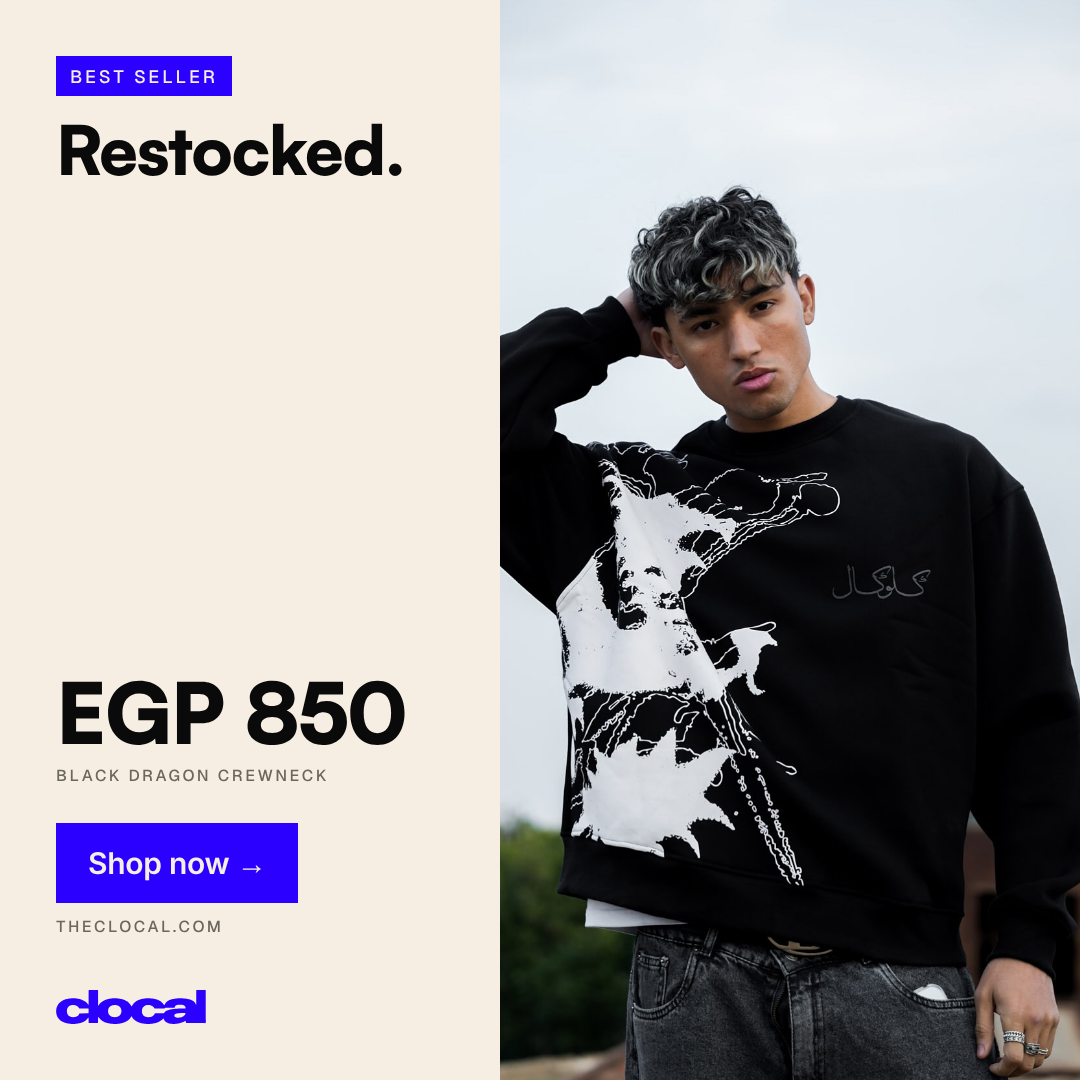
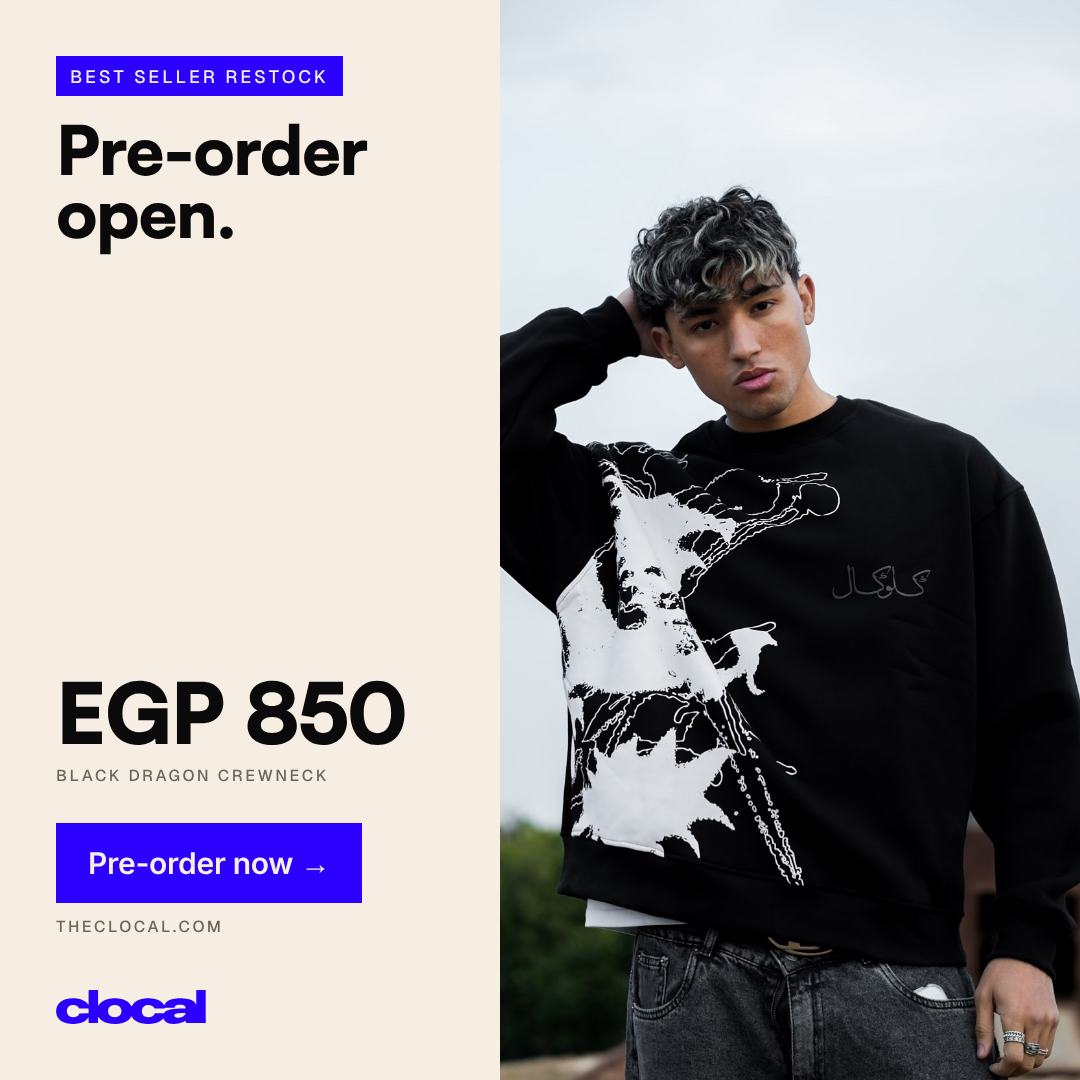
Switch all CLOCAL creatives to Pre-order now CTA
Restock is sold as a pre-order: replace Shop now / in-stock copy across all
ads and teaser frames, fix AD01 footer overflow and button wrapping.

Claude-Session: https://claude.ai/code/session_0134z9woteaCD6XRmPMXin1q

Changed region(s): [[0.0306, 0.0306, 0.3667, 0.2444], [0.0917, 0.7639, 0.3361, 0.8556]]

diff --git a/clocal-black-dragon-ads/src/ad01-the-return_4x5.html b/clocal-black-dragon-ads/src/ad01-the-return_4x5.html
@@ -1,25 +1,25 @@
 <!doctype html>
 <html><head><meta charset="utf-8"><link rel="stylesheet" href="base.css">
 <style>
-  .ph { left: 0; top: 0; width: 1080px; height: 940px; }
-  .band { position: absolute; left: 0; right: 0; top: 940px; bottom: 0; padding: 48px 64px 52px; display: flex; flex-direction: column; }
+  .ph { left: 0; top: 0; width: 1080px; height: 900px; }
+  .band { position: absolute; left: 0; right: 0; top: 900px; bottom: 0; padding: 44px 64px 52px; display: flex; flex-direction: column; }
   .band .label { font-size: 22px; color: var(--gray-300); display: flex; align-items: center; gap: 14px; }
-  .band h1 { font-size: 112px; margin-top: 26px; }
+  .band h1 { font-size: 104px; margin-top: 22px; }
   .foot { margin-top: auto; display: flex; justify-content: space-between; align-items: flex-end; }
   .foot .wm { width: 200px; color: var(--cream); }
-  .price { text-align: right; }
+  .price { display: flex; align-items: center; gap: 28px; }
   .price .amt { font-family: "Satoshi"; font-weight: 700; font-size: 44px; letter-spacing: -0.02em; }
-  .price .label { font-size: 18px; color: var(--gray-300); margin-top: 6px; justify-content: flex-end; }
+  
 </style></head>
 <body>
 <div class="ad ink">
-  <div class="photo ph" data-src="photos/p11_back_closeup.jpg" data-crop="0,330,1333"></div>
+  <div class="photo ph" data-src="photos/p11_back_closeup.jpg" data-crop="0,350,1333"></div>
   <div class="band">
-    <div class="label"><span class="dot"></span>Restocked — Black Dragon Crewneck</div>
+    <div class="label"><span class="dot"></span>Restock pre-order — Black Dragon Crewneck</div>
     <h1 class="display">The Black Dragon<br>is back.</h1>
     <div class="foot">
       <span class="wm"></span>
-      <div class="price"><div class="amt">EGP 850</div><div class="label">theclocal.com</div></div>
+      <div class="price"><div class="amt">EGP 850</div><span class="btn sm">Pre-order now →</span></div>
     </div>
   </div>
 </div>

diff --git a/clocal-black-dragon-ads/src/ad03-loud-in-the-details_4x5.html b/clocal-black-dragon-ads/src/ad03-loud-in-the-details_4x5.html
@@ -1,7 +1,8 @@
 <!doctype html>
 <html><head><meta charset="utf-8"><link rel="stylesheet" href="base.css">
 <style>
-  h1 { position: absolute; left: 64px; top: 64px; font-size: 96px; }
+  h1 { position: absolute; left: 64px; top: 70px; font-size: 84px; }
+  .topwm { position: absolute; right: 64px; top: 92px; width: 140px; color: var(--cream); }
   .tile { position: absolute; }
   .t1 { left: 64px; top: 200px; width: 952px; height: 560px; }
   .t2 { left: 64px; top: 820px; width: 464px; height: 330px; }
@@ -11,11 +12,12 @@
   .foot { position: absolute; left: 64px; right: 64px; bottom: 52px; display: flex; justify-content: space-between; align-items: flex-end; }
   .foot .body { font-size: 26px; color: var(--cream); }
   .foot .body b { font-family: "Satoshi"; font-weight: 700; font-size: 40px; letter-spacing: -0.02em; display: block; margin-top: 4px; }
-  .foot .wm { width: 180px; color: var(--cream); margin-bottom: 8px; }
+  .foot .btn { margin-bottom: 4px; }
 </style></head>
 <body>
 <div class="ad ink">
   <h1 class="display">Loud in the details.</h1>
+  <span class="wm topwm"></span>
   <div class="photo tile t1" data-src="photos/p11_back_closeup.jpg" data-crop="300,700,800"></div>
   <div class="label cap c1"><span class="dot"></span>01 — Dragon back print</div>
   <div class="photo tile t2" data-src="photos/p08_man_vines_front.jpg" data-crop="280,640,760"></div>
@@ -23,8 +25,8 @@
   <div class="photo tile t3" data-src="photos/p03_man_sky_front.jpg" data-crop="600,610,480"></div>
   <div class="label cap c3"><span class="dot"></span>03 — Arabic chest mark</div>
   <div class="foot">
-    <div class="body">Black Dragon Crewneck — back in stock<b>EGP 850</b></div>
-    <span class="wm"></span>
+    <div class="body">Black Dragon Crewneck — restock pre-order<b>EGP 850</b></div>
+    <span class="btn sm">Pre-order now →</span>
   </div>
 </div>
 <script src="crop.js"></script>

diff --git a/clocal-black-dragon-ads/src/ad02-best-seller_4x5.html b/clocal-black-dragon-ads/src/ad02-best-seller_4x5.html
@@ -2,24 +2,25 @@
 <html><head><meta charset="utf-8"><link rel="stylesheet" href="base.css">
 <style>
   .top { position: absolute; left: 64px; right: 64px; top: 60px; }
-  .top .label { font-size: 22px; color: var(--gray-500); display: flex; justify-content: space-between; }
+  .top .label { font-size: 22px; color: var(--gray-500); display: flex; justify-content: space-between; align-items: center; }
+  .top .wm { width: 150px; color: var(--blue); }
   .top h1 { font-size: 104px; margin-top: 28px; }
   .ph { left: 64px; top: 372px; width: 952px; height: 796px; }
   .foot { position: absolute; left: 64px; right: 64px; bottom: 56px; display: flex; justify-content: space-between; align-items: flex-end; }
   .foot .name { font-family: "Inter"; font-weight: 500; font-size: 28px; }
   .foot .amt { font-family: "Satoshi"; font-weight: 900; font-size: 64px; letter-spacing: -0.02em; line-height: 1; margin-top: 6px; }
-  .foot .wm { width: 210px; color: var(--blue); margin-bottom: 6px; }
+  
 </style></head>
 <body>
 <div class="ad cream">
   <div class="top">
-    <div class="label"><span>Best seller</span><span>Restocked</span></div>
+    <div class="label"><span>Best seller — restock pre-order</span><span class="wm"></span></div>
     <h1 class="display">A clocal best seller.<br><span class="blue">Back again.</span></h1>
   </div>
   <div class="photo ph" data-src="photos/p14_man_pillar_front.jpg" data-crop="0,290,1333"></div>
   <div class="foot">
     <div><div class="name">Black Dragon Crewneck</div><div class="amt">EGP 850</div></div>
-    <span class="wm"></span>
+    <span class="btn">Pre-order now →</span>
   </div>
 </div>
 <script src="crop.js"></script>

diff --git a/clocal-black-dragon-ads/src/ad05-back-in-rotation_9x16.html b/clocal-black-dragon-ads/src/ad05-back-in-rotation_9x16.html
@@ -1,20 +1,22 @@
 <!doctype html>
 <html><head><meta charset="utf-8"><link rel="stylesheet" href="base.css">
 <style>
-  .top { position: absolute; left: 64px; right: 64px; top: 250px; }
+  .top { position: absolute; left: 64px; right: 64px; top: 230px; }
   .top .row { display: flex; justify-content: space-between; align-items: flex-end; }
   .top h1 { font-size: 92px; }
   .top .wm { width: 160px; color: var(--cream); margin-bottom: 12px; }
   .top .label { font-size: 19px; color: var(--gray-300); margin-top: 22px; }
-  .ph { left: 0; top: 500px; width: 1080px; height: 1420px; }
+  .top .cta { margin-top: 24px; }
+  .ph { left: 0; top: 560px; width: 1080px; height: 1360px; }
 </style></head>
 <body>
 <div class="ad story ink">
   <div class="top">
     <div class="row"><h1 class="display">Back in rotation.</h1><span class="wm"></span></div>
-    <div class="label">Black Dragon Crewneck · Best seller, restocked · EGP 850</div>
+    <div class="label">Black Dragon Crewneck · Best seller · Restock pre-order · EGP 850</div>
+    <div class="cta"><span class="btn sm">Pre-order now →</span></div>
   </div>
-  <div class="photo ph" data-src="photos/p01_stairs_duo.jpg" data-crop="30,0,1267"></div>
+  <div class="photo ph" data-src="photos/p01_stairs_duo.jpg" data-crop="60,0,1213"></div>
 </div>
 <script src="crop.js"></script>
 </body></html>

diff --git a/clocal-black-dragon-ads/src/ad01-the-return_9x16.html b/clocal-black-dragon-ads/src/ad01-the-return_9x16.html
@@ -6,7 +6,7 @@
   .band { position: absolute; left: 64px; right: 64px; top: 1160px; }
   .band .label { font-size: 24px; color: var(--gray-300); display: flex; align-items: center; gap: 14px; margin-top: 40px; }
   .band h1 { font-size: 106px; margin-top: 24px; }
-  .row { display: flex; justify-content: space-between; align-items: center; margin-top: 44px; }
+  .row { display: flex; gap: 32px; align-items: center; margin-top: 44px; } .row .wm { margin-right: auto; }
   .row .wm { width: 190px; color: var(--cream); }
   .row .amt { font-family: "Satoshi"; font-weight: 700; font-size: 48px; letter-spacing: -0.02em; }
   .row .label { font-size: 20px; margin: 0; }
@@ -15,9 +15,9 @@
 <div class="ad story ink">
   <div class="photo ph" data-src="photos/p11_back_closeup.jpg" data-crop="0,180,1333"></div>
   <div class="band">
-    <div class="label"><span class="dot"></span>Restocked — Black Dragon Crewneck</div>
+    <div class="label"><span class="dot"></span>Restock pre-order — Black Dragon Crewneck</div>
     <h1 class="display">The Black Dragon<br>is back.</h1>
-    <div class="row"><span class="wm"></span><span class="amt">EGP 850</span></div>
+    <div class="row"><span class="wm"></span><span class="amt">EGP 850</span><span class="btn sm">Pre-order now →</span></div>
   </div>
 </div>
 <script src="crop.js"></script>

diff --git a/clocal-black-dragon-ads/src/ad08-every-angle_4x5.html b/clocal-black-dragon-ads/src/ad08-every-angle_4x5.html
@@ -12,12 +12,12 @@
   .foot { position: absolute; left: 64px; right: 64px; bottom: 50px; display: flex; justify-content: space-between; align-items: flex-end; }
   .foot .wm { width: 170px; color: var(--cream); margin-bottom: 6px; }
   .foot .amt { font-family: "Satoshi"; font-weight: 700; font-size: 44px; letter-spacing: -0.02em; text-align: right; line-height: 1; }
-  .foot .label { font-size: 16px; color: var(--gray-300); margin-top: 10px; text-align: right; }
+  .foot .pr { display: flex; align-items: center; gap: 28px; }
 </style></head>
 <body>
 <div class="ad ink">
   <div class="head">
-    <div class="label"><span class="dot"></span>Best seller — restocked</div>
+    <div class="label"><span class="dot"></span>Best seller — restock pre-order</div>
     <h1 class="display">One crewneck.<br>Every angle.</h1>
   </div>
   <div class="grid">
@@ -30,7 +30,7 @@
   </div>
   <div class="foot">
     <span class="wm"></span>
-    <div><div class="amt">EGP 850</div><div class="label">Black Dragon Crewneck · theclocal.com</div></div>
+    <div class="pr"><div class="amt">EGP 850</div><span class="btn sm">Pre-order now →</span></div>
   </div>
 </div>
 <script src="crop.js"></script>

diff --git a/clocal-black-dragon-ads/src/teaser-03-back-soon_9x16.html b/clocal-black-dragon-ads/src/teaser-03-back-soon_9x16.html
@@ -7,6 +7,7 @@
   .band .label { font-size: 22px; color: var(--gray-300); display: flex; align-items: center; gap: 14px; }
   .band h1 { font-size: 104px; margin-top: 20px; }
   .row { display: flex; justify-content: space-between; align-items: center; margin-top: 34px; }
+  .num3 { position: absolute; right: 64px; top: 1236px; font-size: 18px; color: var(--gray-500); }
   .row .wm { width: 170px; color: var(--cream); }
   .row .label { font-size: 18px; }
 </style></head>
@@ -14,9 +15,10 @@
 <div class="ad story ink">
   <div class="photo ph" data-src="photos/p05_man_back_sky.jpg" data-crop="160,40,1000"></div>
   <div class="band">
-    <div class="label"><span class="dot"></span>Best seller — restock</div>
+    <div class="label num3">03 / 03</div>
+    <div class="label"><span class="dot"></span>Best seller — restock pre-order</div>
     <h1 class="display">The Black Dragon.<br>Back soon.</h1>
-    <div class="row"><span class="wm"></span><span class="label">03 / 03 · theclocal.com</span></div>
+    <div class="row"><span class="wm"></span><span class="btn sm">Pre-order now →</span></div>
   </div>
 </div>
 <script src="crop.js"></script>

diff --git a/clocal-black-dragon-ads/src/ad05-back-in-rotation_4x5.html b/clocal-black-dragon-ads/src/ad05-back-in-rotation_4x5.html
@@ -6,14 +6,15 @@
   .row { display: flex; justify-content: space-between; align-items: flex-end; }
   h1 { font-size: 88px; }
   .wm { width: 170px; color: var(--cream); margin-bottom: 10px; }
-  .label { font-size: 18px; color: var(--gray-300); margin-top: 22px; }
+  .row2 { display: flex; justify-content: space-between; align-items: center; margin-top: 22px; }
+  .label { font-size: 17px; color: var(--gray-300); }
 </style></head>
 <body>
 <div class="ad ink">
   <div class="photo ph" data-src="photos/p01_stairs_duo.jpg" data-crop="0,170,1333"></div>
   <div class="band">
     <div class="row"><h1 class="display">Back in rotation.</h1><span class="wm"></span></div>
-    <div class="label">Black Dragon Crewneck · Best seller, restocked · EGP 850 · theclocal.com</div>
+    <div class="row2"><div class="label">Black Dragon Crewneck · Restock pre-order · EGP 850</div><span class="btn sm">Pre-order now →</span></div>
   </div>
 </div>
 <script src="crop.js"></script>

diff --git a/clocal-black-dragon-ads/src/ad07-still-the-favourite_4x5.html b/clocal-black-dragon-ads/src/ad07-still-the-favourite_4x5.html
@@ -7,7 +7,7 @@
   .over h1 { font-size: 112px; margin-top: 22px; color: var(--ink); }
   .strip { position: absolute; left: 0; right: 0; bottom: 0; height: 132px; padding: 0 64px; display: flex; justify-content: space-between; align-items: center; }
   .strip .wm { width: 170px; color: var(--blue); }
-  .strip .body { font-size: 28px; }
+  .strip .body { font-size: 26px; }
   .strip .body b { font-family: "Satoshi"; font-weight: 700; letter-spacing: -0.02em; }
 </style></head>
 <body>
@@ -19,7 +19,8 @@
   </div>
   <div class="strip cream">
     <span class="wm"></span>
-    <div class="body">Back in stock — <b>EGP 850</b> · theclocal.com</div>
+    <div class="body">Restock pre-order — <b>EGP 850</b></div>
+    <span class="btn sm">Pre-order now →</span>
   </div>
 </div>
 <script src="crop.js"></script>

diff --git a/clocal-black-dragon-ads/src/ad06-direct-response_4x5.html b/clocal-black-dragon-ads/src/ad06-direct-response_4x5.html
@@ -15,12 +15,12 @@
 <div class="ad cream">
   <div class="photo ph" data-src="photos/p03_man_sky_front.jpg" data-crop="0,0,1333"></div>
   <div class="over">
-    <span class="label tag">Best seller</span>
-    <h1 class="display">Restocked.</h1>
+    <span class="label tag">Best seller restock</span>
+    <h1 class="display">Pre-order open.</h1>
   </div>
   <div class="band">
     <div><div class="amt">EGP 850</div><div class="label name">Black Dragon Crewneck</div></div>
-    <div class="right"><span class="btn">Shop now →</span><span class="label">theclocal.com</span></div>
+    <div class="right"><span class="btn">Pre-order now →</span><span class="label">theclocal.com</span></div>
   </div>
 </div>
 <script src="crop.js"></script>

diff --git a/clocal-black-dragon-ads/src/base.css b/clocal-black-dragon-ads/src/base.css
@@ -55,6 +55,7 @@ html, body { background: var(--ink); }
 .photo img { position: absolute; display: block; }
 
 .rule { height: 1px; background: currentColor; opacity: .25; }
-.btn { display: inline-flex; align-items: center; gap: 18px; font-family: "Inter"; font-weight: 600;
+.btn { white-space: nowrap; display: inline-flex; align-items: center; gap: 18px; font-family: "Inter"; font-weight: 600;
   font-size: 34px; letter-spacing: -0.01em; padding: 26px 40px; background: var(--blue); color: var(--cream); }
 .dot { display: inline-block; width: 12px; height: 12px; border-radius: 50%; background: var(--orange); }
+.btn.sm { font-size: 24px; padding: 16px 24px; gap: 12px; }

diff --git a/clocal-black-dragon-ads/src/ad04-front-back_1x1.html b/clocal-black-dragon-ads/src/ad04-front-back_1x1.html
@@ -16,7 +16,7 @@
 <body>
 <div class="ad sq cream">
   <div class="head">
-    <h1 class="display">Front. Back.<br>Back in stock.</h1>
+    <h1 class="display">Front. Back.<br>Coming back.</h1>
     <span class="wm"></span>
   </div>
   <div class="photo tile t1" data-src="photos/p08_man_vines_front.jpg" data-crop="290,420,1010"></div>
@@ -25,7 +25,7 @@
   <div class="label cap c2">Back — dragon print</div>
   <div class="foot">
     <div><div class="name">Black Dragon Crewneck</div><div class="amt">EGP 850</div></div>
-    <span class="btn">Shop now →</span>
+    <span class="btn">Pre-order now →</span>
   </div>
 </div>
 <script src="crop.js"></script>
